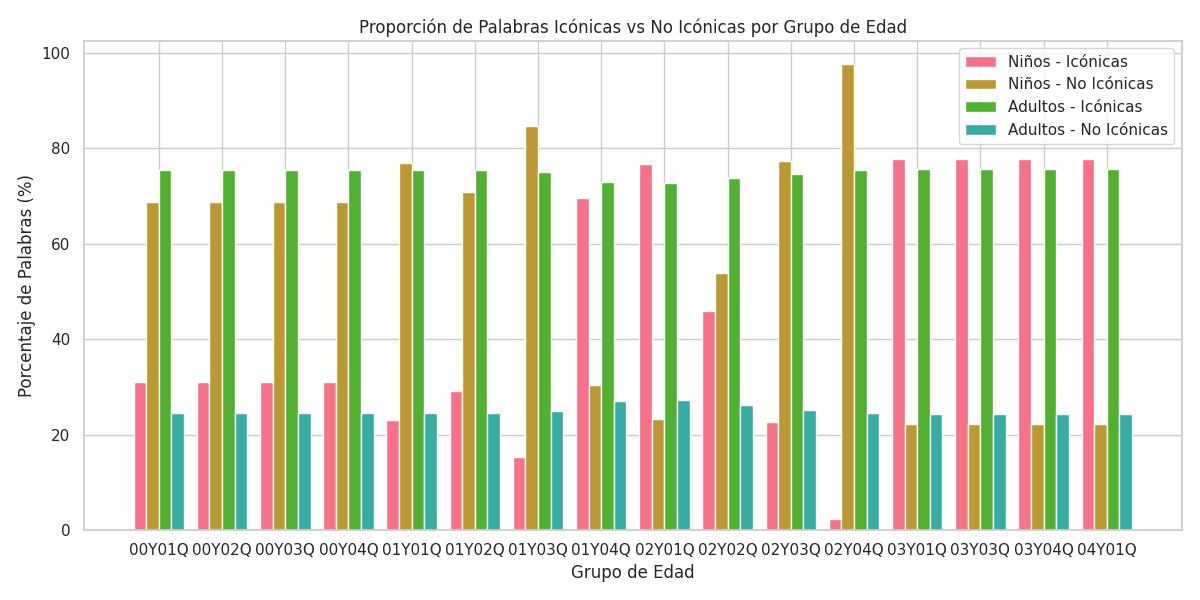
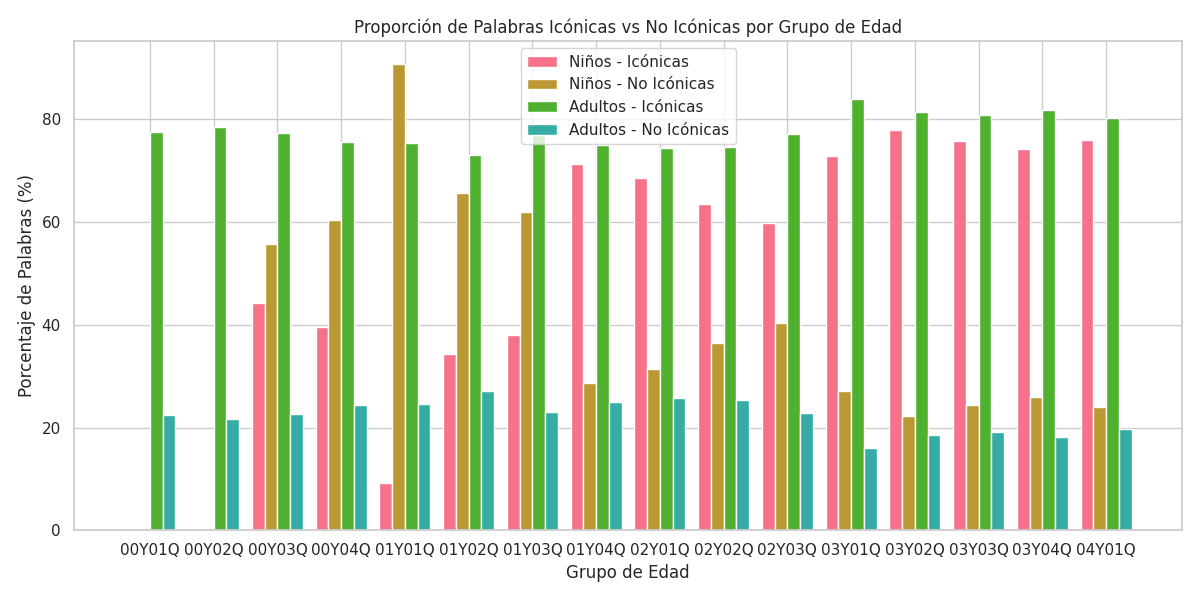
fix bugs

diff --git a/src/data_analysis_plotter.py b/src/data_analysis_plotter.py
@@ -258,10 +258,20 @@ class DataAnalysisPlotter:
         Args:
             save_dir (str, optional): Directorio donde guardar las gráficas. Si es None, las gráficas se muestran en pantalla.
         """
+        print_valid_words_statistics(self.data)
+
         for age_group, stats in sorted(self.data.items()):
             # Obtener las palabras con rating para adultos y niños
             adults_words_with_rating = stats['adults']['iconic_words']
             children_words_with_rating = stats['children']['iconic_words']
+
+            # Verificar si hay datos para adultos y niños
+            has_adult_data = len(adults_words_with_rating) > 0
+            has_children_data = len(children_words_with_rating) > 0
+
+            if not has_adult_data and not has_children_data:
+                print(f"\nNo hay datos de iconicidad para el grupo de edad {age_group}")
+                continue
 
             # Crear listas de (rating, count) para adultos y niños
             adults_ratings_counts = [(word_data['rating'], word_data['count']) 
@@ -274,10 +284,20 @@ class DataAnalysisPlotter:
             total_children = stats['children']['total_iconic_occurrences']
 
             # Obtener mínimo y máximo de iconicidad
-            min_rating = min(min(r for r, _ in adults_ratings_counts), 
-                           min(r for r, _ in children_ratings_counts))
-            max_rating = max(max(r for r, _ in adults_ratings_counts), 
-                           max(r for r, _ in children_ratings_counts))
+            min_rating = float('inf')
+            max_rating = float('-inf')
+
+            if has_adult_data:
+                min_rating = min(min_rating, min(r for r, _ in adults_ratings_counts))
+                max_rating = max(max_rating, max(r for r, _ in adults_ratings_counts))
+
+            if has_children_data:
+                min_rating = min(min_rating, min(r for r, _ in children_ratings_counts))
+                max_rating = max(max_rating, max(r for r, _ in children_ratings_counts))
+
+            if min_rating == float('inf') or max_rating == float('-inf'):
+                print(f"\nNo se pudieron calcular los rangos de iconicidad para el grupo de edad {age_group}")
+                continue
 
             # Crear bins para la iconicidad
             x_axis = np.arange(min_rating, max_rating + 0.25, 0.25)
@@ -291,41 +311,44 @@ class DataAnalysisPlotter:
             children_cumulative = np.zeros(len(x_axis))
 
             # Acumular ocurrencias para adultos
-            current_count = 0
-            current_bin = 0
-            for rating, count in sorted_adults:
-                if current_bin < len(x_axis) and rating > x_axis[current_bin]:
-                    adults_cumulative[current_bin] = current_count
-                    current_bin += 1
-                current_count += count
+            if has_adult_data:
+                current_count = 0
+                current_bin = 0
+                for rating, count in sorted_adults:
+                    if current_bin < len(x_axis) and rating > x_axis[current_bin]:
+                        adults_cumulative[current_bin] = current_count
+                        current_bin += 1
+                    current_count += count
 
-            # Actualizar el último bin y los restantes
-            for i in range(current_bin, len(x_axis)):
-                adults_cumulative[i] = current_count
-            
-            print("Adults cumulative for ", age_group)
-            # crear adults_cumulative_percentage
-            print("adults_cumulative: ", adults_cumulative)
-            print("total adults: ", total_adults)
-            adults_cumulative_percentage = (adults_cumulative/total_adults) * 100
-            print("adults_cumulative_percentage: ", adults_cumulative_percentage)
+                # Actualizar el último bin y los restantes
+                for i in range(current_bin, len(x_axis)):
+                    adults_cumulative[i] = current_count
 
-            # # Acumular ocurrencias para niños
-            # current_count = 0
-            # current_bin = 0
-            # for rating, count in sorted_children:
-            #     if current_bin < len(x_axis) and rating > x_axis[current_bin]:
-            #         children_cumulative[current_bin] = current_count
-            #         current_bin += 1
-            #     current_count += count
-            # # Actualizar el último bin y los restantes
-            # for i in range(current_bin, len(x_axis)):
-            #     children_cumulative[i] = current_count
+            # Acumular ocurrencias para niños
+            if has_children_data:
+                current_count = 0
+                current_bin = 0
+                for rating, count in sorted_children:
+                    if current_bin < len(x_axis) and rating > x_axis[current_bin]:
+                        children_cumulative[current_bin] = current_count
+                        current_bin += 1
+                    current_count += count
+
+                # Actualizar el último bin y los restantes
+                for i in range(current_bin, len(x_axis)):
+                    children_cumulative[i] = current_count
 
             # Crear la gráfica
             plt.figure(figsize=(10, 6))
-            plt.plot(x_axis, adults_cumulative/total_adults * 100, label='Adultos', marker='o', markersize=4)
-            plt.plot(x_axis, children_cumulative/total_children * 100, label='Niños', marker='s', markersize=4)
+            
+            # Plotear datos de adultos si existen
+            if has_adult_data:
+                plt.plot(x_axis, adults_cumulative/total_adults * 100, label='Adultos', marker='o', markersize=4)
+            
+            # Plotear datos de niños si existen
+            if has_children_data:
+                plt.plot(x_axis, children_cumulative/total_children * 100, label='Niños', marker='s', markersize=4)
+            
             plt.xlabel('Iconicidad')
             plt.ylabel('Porcentaje acumulado de palabras (%)')
             plt.title(f'Distribución acumulativa de iconicidad - Grupo {age_group}')
@@ -344,3 +367,38 @@ class DataAnalysisPlotter:
 
 
 
+def print_valid_words_statistics(valid_words_stats):
+    """
+    Imprime las estadísticas de palabras válidas por grupo de edad.
+    
+    Args:
+        valid_words_stats (dict): Estadísticas de palabras válidas por grupo de edad
+    """
+    for age_group, stats in sorted(valid_words_stats.items()):
+        print(f"\n=== Grupo de edad {age_group} ===")
+        
+        # Estadísticas de adultos
+        print("\nEstadísticas de adultos:")
+        print(f"  Total de palabras: {stats['adults']['total_words']}")
+        
+        # Calcular totales de ocurrencias de palabras icónicas y no icónicas
+        total_iconic_occurrences_adults = stats['adults']['total_iconic_occurrences']
+        total_non_iconic_occurrences_adults = stats['adults']['total_non_iconic_occurrences']
+        
+        print(f"  Número total de ocurrencias de palabras icónicas: {total_iconic_occurrences_adults}")
+        print(f"  Número total de ocurrencias de palabras no icónicas: {total_non_iconic_occurrences_adults}")
+        print(f"  Número de palabras icónicas diferentes: {len(stats['adults']['iconic_words'])}")
+        print(f"  Número de palabras no icónicas diferentes: {len(stats['adults']['non_iconic_words'])}")
+        
+        # Estadísticas de niños
+        print("\nEstadísticas de niños:")
+        print(f"  Total de palabras: {stats['children']['total_words']}")
+        
+        # Calcular totales de ocurrencias de palabras icónicas y no icónicas
+        total_iconic_occurrences_children = stats['children']['total_iconic_occurrences']
+        total_non_iconic_occurrences_children = stats['children']['total_non_iconic_occurrences']
+        
+        print(f"  Número total de ocurrencias de palabras icónicas: {total_iconic_occurrences_children}")
+        print(f"  Número total de ocurrencias de palabras no icónicas: {total_non_iconic_occurrences_children}")
+        print(f"  Número de palabras icónicas diferentes: {len(stats['children']['iconic_words'])}")
+        print(f"  Número de palabras no icónicas diferentes: {len(stats['children']['non_iconic_words'])}")

diff --git a/examples/main2.py b/examples/main2.py
@@ -13,7 +13,8 @@ from src.data_analysis_plotter import DataAnalysisPlotter
 
 def get_age_quarter(age_str):
     """
-    Convierte una cadena de edad en formato YYYYMMDD a formato YYQ.
+    Convierte una cadena de edad en formato YYYYMMDD o "X years Y months Z days" a formato YYQ.
+    Calcula el cuarto basado en los meses del año.
     
     Args:
         age_str (str): Edad en formato YYYYMMDD o "X years Y months Z days"
@@ -32,9 +33,12 @@ def get_age_quarter(age_str):
             years = int(age_str[:2])
             months = int(age_str[2:4])
         
-        # Asegurar que los meses estén en el rango 0-11
-        months = months % 12
-        quarter = (months // 3) + 1
+        # Calcular el cuarto basado en los meses (1-3, 4-6, 7-9, 10-12)
+        quarter = ((months - 1) // 3) + 1
+        
+        # Asegurar que el cuarto esté en el rango 1-4
+        quarter = min(max(quarter, 1), 4)
+        
         return f"{years:02d}Y{quarter:02d}Q"
     except (ValueError, IndexError):
         return "00Y00Q"
@@ -50,6 +54,7 @@ def group_data_by_age(processed_data):
         dict: Datos agrupados por edad en formato YYQ
     """
     data_grouped_by_age = {}
+    processed_files = set()  # Conjunto para rastrear archivos ya procesados
     
     # Iterar sobre cada corpus
     for corpus_name, corpus_data in processed_data['Corpus_modified'].items():
@@ -58,6 +63,12 @@ def group_data_by_age(processed_data):
             if 'files' in child_data:
                 # Iterar sobre cada archivo
                 for file in child_data['files']:
+                    file_path = file['metadata']['file_path']
+                    
+                    # Si el archivo ya fue procesado, saltarlo
+                    if file_path in processed_files:
+                        continue
+                    processed_files.add(file_path)
 
                     age = file['metadata'].get('child_age', '')
                     if age:
@@ -91,7 +102,7 @@ def group_data_by_age(processed_data):
                         
                         # Añadir información del archivo
                         data_grouped_by_age[age_quarter]['files'].append({
-                            'file_path': file['metadata']['file_path'],
+                            'file_path': file_path,
                             'child_name': file['metadata'].get('child_name', 'N/A'),
                             'child_age': age,
                             'age_group': age_quarter,
@@ -392,12 +403,6 @@ def process_data_with_formatter(corpus_data):
     Returns:
         dict: Estructura jerárquica con los datos separados por niños y adultos
     """
-    # Crear instancias de DataFormatter para cada corpus
-    brent_formatter = DataFormatter()
-    newengland_formatter = DataFormatter()
-    post_formatter = DataFormatter()
-    vankleeck_formatter = DataFormatter()
-    
     # Estructura resultante que mantendrá la jerarquía
     result = {'Corpus_modified': {}}
     
@@ -406,14 +411,6 @@ def process_data_with_formatter(corpus_data):
         if corpus_name in corpus_data['Corpus_modified']:
             result['Corpus_modified'][corpus_name] = {}
             corpus_data_current = corpus_data['Corpus_modified'][corpus_name]
-            
-            # Seleccionar el formatter correspondiente
-            formatter = {
-                'Brent': brent_formatter,
-                'NewEngland': newengland_formatter,
-                'Post': post_formatter,
-                'VanKleeck': vankleeck_formatter
-            }[corpus_name]
             
             # Procesar cada subdirectorio
             for dir_name, content in corpus_data_current.items():
@@ -426,6 +423,8 @@ def process_data_with_formatter(corpus_data):
                     for file in content['files']:
                         if file['metadata']['file_path'].endswith('.cha'):
                             file_path = file['metadata']['file_path']
+                            # Crear una nueva instancia de DataFormatter para cada archivo
+                            formatter = DataFormatter()
                             children_data, adults_data = formatter.format_cha_data_from(file_path)
                             
                             # Crear una copia del archivo original con los datos separados
@@ -517,7 +516,7 @@ def main():
     # Mostrar estadísticas de palabras válidas
     print("\nMostrando estadísticas de palabras válidas por grupo de edad:")
     print_valid_words_statistics(valid_words_stats)
-    
+
     # Crear y mostrar gráficas de análisis
     print("\nCreando gráficas de análisis...")
     plotter = DataAnalysisPlotter(valid_words_stats)
@@ -549,6 +548,5 @@ def main():
     pruebas_dir = os.path.join(os.path.dirname(os.path.dirname(os.path.abspath(__file__))), "pruebas")
     os.makedirs(pruebas_dir, exist_ok=True)
     plotter.plot_iconicity_distribution_by_age_group(save_dir=pruebas_dir)
-
 if __name__ == "__main__":
     main()  
